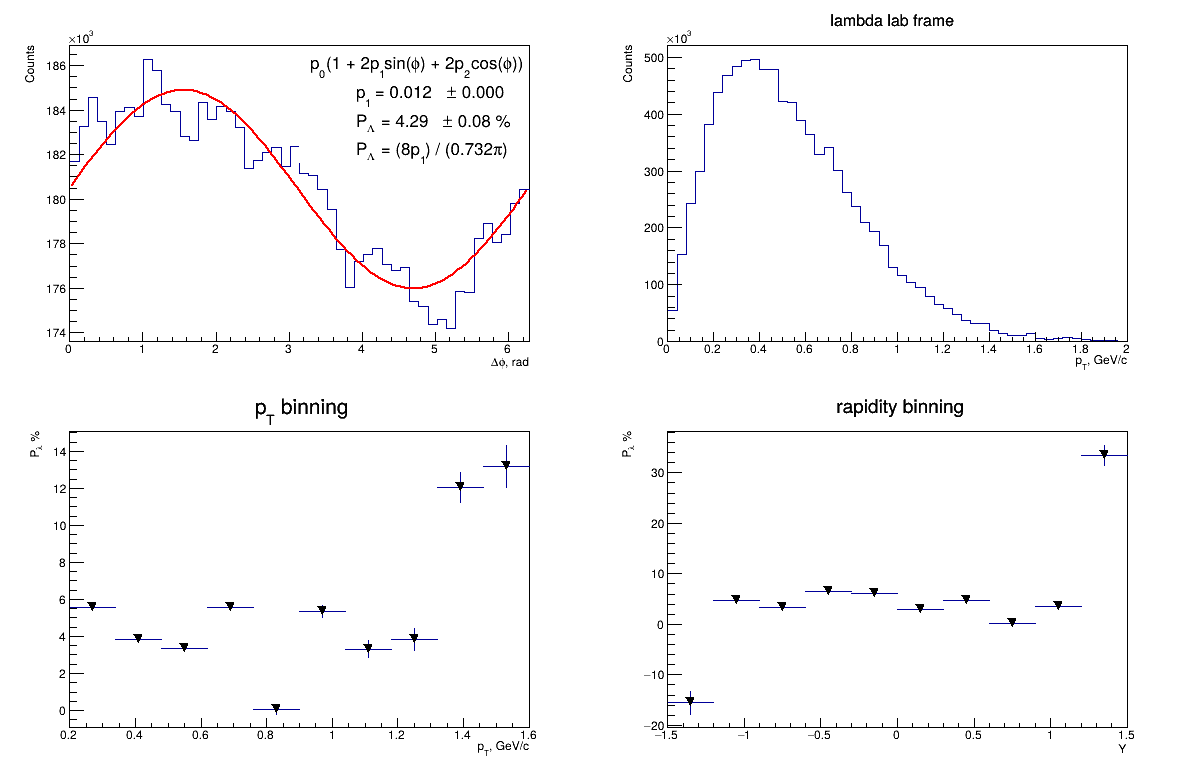
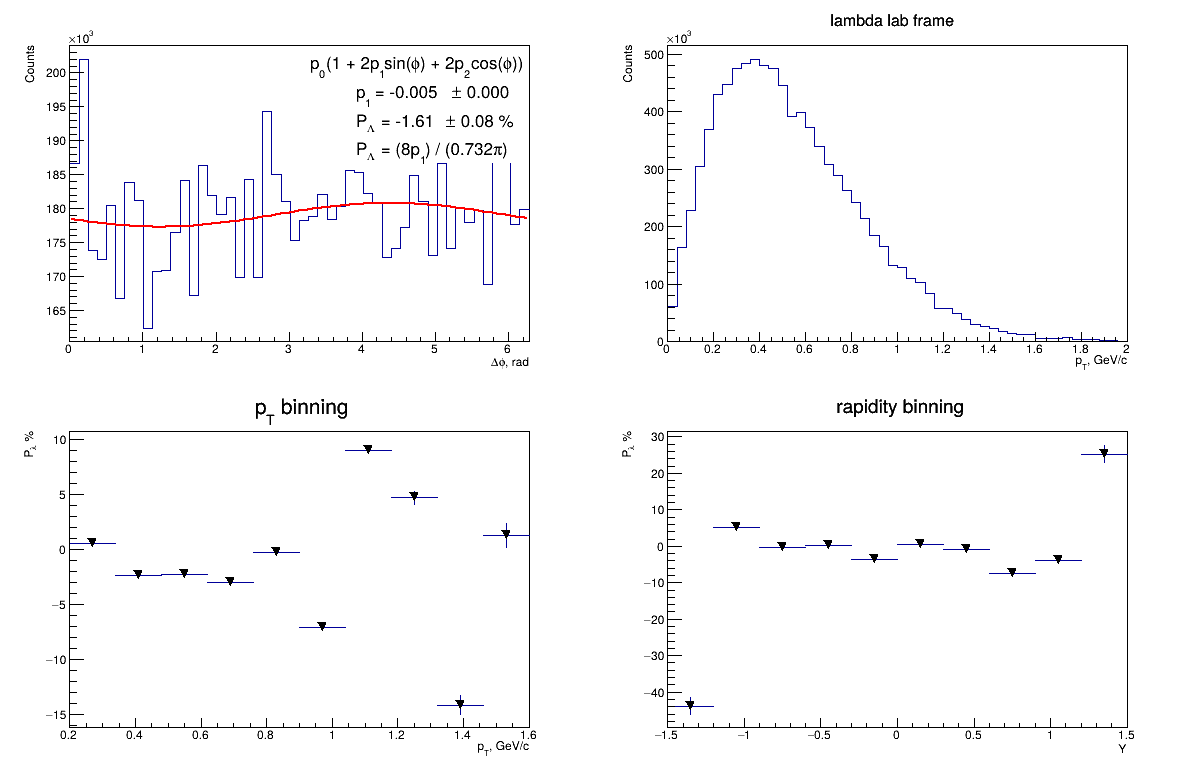
testing

diff --git a/read_unigen_root.cpp b/read_unigen_root.cpp
@@ -211,21 +211,6 @@ void simulate_lambda_decays(TString inputFile, TString outputFile, TString confI
                 TLorentzVector newLambdaPos( 1., 1., 1., 1.);
                 TLorentzVector newLambdaMom( 1., 1., 1., 1. );
 
-                // Double_t pt  = gRandom->Uniform(0.5, 3.0);
-                // Double_t phi = gRandom->Uniform(0, 2*TMath::Pi());
-                // Double_t eta = gRandom->Uniform(-1, 1);
-
-                // TLorentzVector newLambdaPos(
-                //     get_random_value(0, 0.03),
-                //     get_random_value(0, 0.03),
-                //     get_random_value(0, 0.03),
-                //     get_random_value(0, 0.03));
-                // TLorentzVector newLambdaMom(
-                //     get_random_value(pt*cos(phi), 0.03),
-                //     get_random_value(pt*sin(phi), 0.03),
-                //     get_random_value(pt*sinh(eta), 0.03),
-                //     get_random_value(sqrt(pt*pt*cosh(eta)*cosh(eta) + mLambda*mLambda), 0.03));
-
                 UParticle* newpart = new UParticle(i, 3122, 1, 1, 1, -15, -1,
                                     child_null, newLambdaMom, newLambdaPos, 0 );
                 lambdaCounter++;
@@ -290,7 +275,7 @@ void simulate_lambda_decays(TString inputFile, TString outputFile, TString confI
             if (TMath::Abs(cos_theta) >= 1.0) cos_theta = TMath::Sign(1.0, cos_theta);
             else sin_theta = TMath::Sqrt((1. - cos_theta) * (1. + cos_theta));
       
-//TEEEEEEST
+// //TEEEEEEST WITHOUT POLARIZATION
 // phi = gRandom->Uniform(0, 2*TMath::Pi());
 // cos_theta = gRandom->Uniform(-1, 1);
 // sin_theta = gRandom->Uniform(-1, 1);
@@ -339,13 +324,6 @@ void simulate_lambda_decays(TString inputFile, TString outputFile, TString confI
                 enhancedFlag = -9;
 
                 TLorentzVector mom_rand( 1., 1., 1., 1. );
-                
-                // TLorentzVector mom_rand(
-                //     get_random_value(lambda.Px(), 0.03),
-                //     get_random_value(lambda.Py(), 0.03),
-                //     get_random_value(lambda.Pz(), 0.03),
-                //     get_random_value(lambda.E(), 0.03)
-                // );
                 
                 TLorentzVector pos_rand(
                     get_random_value(lambda.X(), 0.03),
@@ -403,7 +381,7 @@ void simulate_lambda_decays(TString inputFile, TString outputFile, TString confI
                 if (TMath::Abs(cos_theta) >= 1.0) cos_theta = TMath::Sign(1.0, cos_theta);
                 else sin_theta = TMath::Sqrt((1. - cos_theta) * (1. + cos_theta));
 
-// //TEEEEEEST
+// // //TEEEEEEST WITHOUT POLARIZATION
 // phi = gRandom->Uniform(0, 2*TMath::Pi());
 // cos_theta = gRandom->Uniform(-1, 1);
 // sin_theta = gRandom->Uniform(-1, 1);
@@ -482,7 +460,7 @@ void simulate_lambda_decays(TString inputFile, TString outputFile, TString confI
 void calc_global_polarization(TString InFileName, TString OutFileName, Int_t enhancedFlag){
     gStyle->SetOptStat(0);  // Disable stats globally
     TF1* fitPhiDistro = new TF1("fitPhiDistro", "[0]*(1+2*[1]*TMath::Sin(x)+2*[2]*TMath::Cos(x))", 0, 2*TMath::Pi()); //Fitting function
-    fitPhiDistro->SetParameter(1, 4.*(TMath::Pi()*0.732)/(8.*100));
+    fitPhiDistro->SetParameter(1, 4.*(TMath::Pi()*0.732)/(8.*100)); //initial guess for fit
     // TF1* fitPhiDistro = new TF1("fitPhiDistro", 
     //     "[0]*(1 + [1]*sin(x) + [2]*cos(x) + [3]*sin(2*x) + [4]*cos(2*x))", 
     //     0, 2*TMath::Pi());
@@ -1078,6 +1056,9 @@ Int_t get_number_of_bin(Double_t fValue, Double_t fMinValue, Double_t fMaxValue,
     // if( v2  > 1 ) v2 =1;
     // std::cout<<" v2 value =  "<<v2<<std::endl;
     // generate phi according to v1 and v2
+    // v1 = 0.0;   //generation WITHOUT flows
+    // v2 = 0.0;
+
     static TF1 f("f", "[0]*(1+2*[1]*TMath::Cos(x)+2*[2]*TMath::Cos(2*x))+[3]", 0,2*TMath::Pi());
     Double_t a1=1+2*v1+2*v2;
     Double_t a2=1-2*v1+2*v2;
